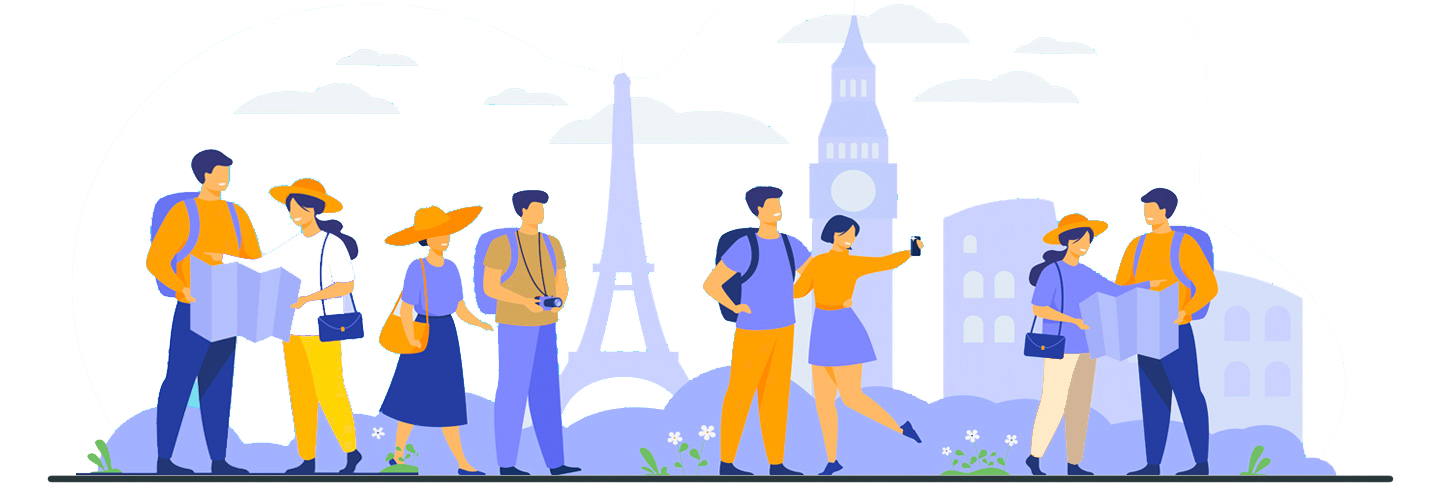
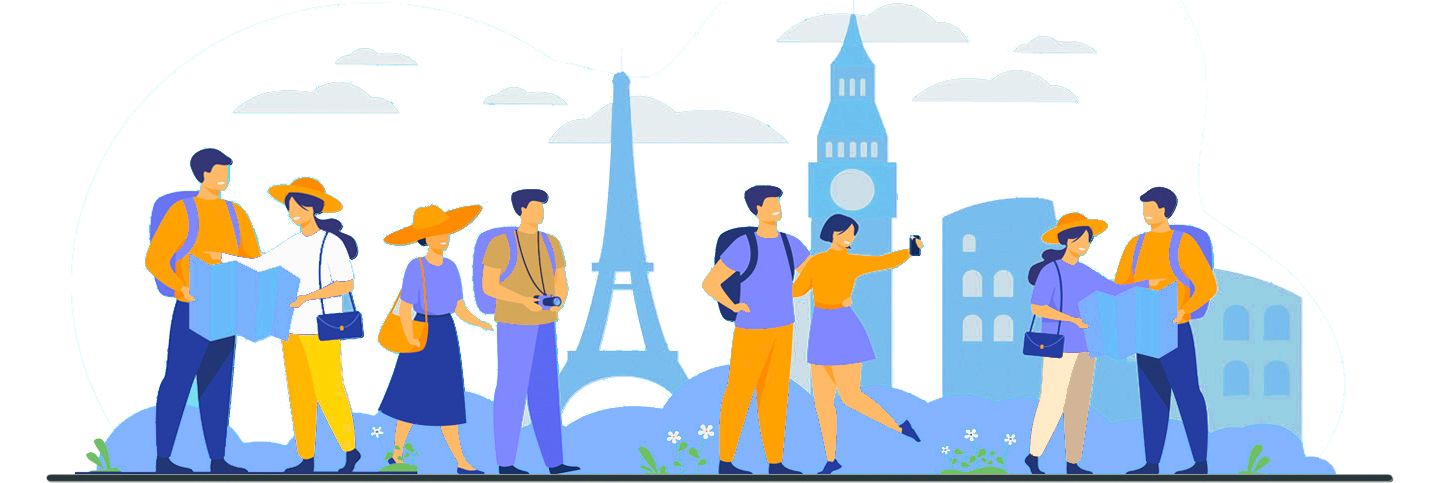
fix map marker style and minor layout edits
delete unnecessary jpg files

Changed region(s): [[0.0312, 0.0311, 0.9688, 1.0], [0.2812, 0.4037, 0.375, 0.4348], [0.3438, 0.1863, 0.375, 0.2174]]

diff --git a/src/app/map/map.component.ts b/src/app/map/map.component.ts
@@ -55,9 +55,9 @@ export class MapComponent implements OnInit, AfterViewInit {
 
     const markerIcon = L.icon({
       iconUrl: `../../assets/img/markers/user-location-pointer.png`,
-      iconSize: [46, 46], // size of the icon
+      iconSize: [30, 30], // size of the icon
       iconAnchor: [15.5, 42], // point of the icon which will correspond to marker's location
-      popupAnchor: [0, -45] // point from which the popup should open relative to the iconAnchor
+      popupAnchor: [0, -40] // point from which the popup should open relative to the iconAnchor
     });
 
     const zooMarker = L.marker([this.currentPosition.latitude, this.currentPosition.longitude], {
@@ -68,27 +68,27 @@ export class MapComponent implements OnInit, AfterViewInit {
   }
 
   placeMarkers(tapahtumat: Tapahtuma[]){
-    let filteredTapahtumat = tapahtumat.filter(t=>
+    let filteredTapahtumat = tapahtumat/*.filter(t=>
       t.sijaintiLeveys < this.places.currentPosition.latitude + this.radius && 
       t.sijaintiLeveys > this.places.currentPosition.latitude - this.radius &&
       t.sijaintiPituus < this.places.currentPosition.longitude + this.radius &&
-      t.sijaintiPituus > this.places.currentPosition.longitude - this.radius)
+      t.sijaintiPituus > this.places.currentPosition.longitude - this.radius)*/
       
     this.markers.forEach(m=>this.map.removeLayer(m))
     this.markers = []
 
     filteredTapahtumat.forEach(t=> {
       const markerIcon = L.icon({
-        iconUrl: `../../assets/img/markers/place-location-pointer.png`,
-        iconSize: [30, 30], // size of the icon
+        iconUrl: `../../assets/img/markers/place2-location-pointer.png`,
+        iconSize: [14, 14], // size of the icon
         iconAnchor: [15.5, 42], // point of the icon which will correspond to marker's location
-        popupAnchor: [0, -45] // point from which the popup should open relative to the iconAnchor
+        popupAnchor: [-10, -40] // point from which the popup should open relative to the iconAnchor
       });
 
       const marker = L.marker([t.sijaintiLeveys, t.sijaintiPituus], {  
         icon: markerIcon
       })
-      .bindPopup(`<b class="text-cyan-600">${t.nimi}</b>`)
+      .bindPopup(`<a href="${t.homesite}" target="_blank"><b class="text-cyan-600">${t.nimi}</b></a><br><b class="lowercase">${t.luokka}</b>`)
       .addTo(this.map);
       this.markers.push(marker)
     })

diff --git a/src/app/geolocation/geolocation.component.html b/src/app/geolocation/geolocation.component.html
@@ -4,12 +4,12 @@
     placeholder="Syötä sijainti..."
     id="address"
     [(ngModel)]="address"
-    class="my-1 mb-1 p-2 border-solid border-2 border-orange-400 rounded-lg w-full md:w-4/6"
+    class="my-1 p-2 border-solid border-2 border-orange-400 rounded-lg w-full md:w-4/6"
   />
   <button
-    class="bg-orange-400 px-6 m-1 ml-2 rounded-lg text-white font-bold text-lg hover:bg-orange-600"
+    class="bg-orange-500 px-3 p-1 m-1 ml-2 rounded-lg text-white font-bold leading-none hover:bg-cyan-500"
     (click)="findAddress()"
-  >
+  > Etsi
     <fa-icon
       class="text-white text-xl m-1 drop-shadow-lg"
       [icon]="faLocationDot"
@@ -17,15 +17,33 @@
   </button>
 </div>
 
-<div class="pl-6 md:pl-12 text-xs">
-<p class="" *ngIf="latitude && longitude">
+<div class="pl-3 md:pl-12 text-xs">
+<!--<p class="" *ngIf="latitude && longitude">
   <span class="font-semibold"> Your current location is <br></span> 
-   {{address}} <br> 
    latitude: {{latitude}} and longitude: {{longitude}}
 </p>
 <p class="" *ngIf="!latitude && !longitude">
   Not found coordinates. Allow your browser location data.
+</p>-->
+<p class="mb-2" *ngIf="addressResult">
+  {{ addressResult }}<br>
+  lat: {{latitude}} & long: {{longitude}}
 </p>
-<button class="bg-cyan-400 rounded-lg my-1 p-2 text-white" (click)="refreshCurrentCoords()">Päivitä käyttämään näitä koordinaatteja</button>
+
+<button class="bg-cyan-500 rounded-lg my-1 p-2 text-white drop-shadow-lg hover:bg-orange-500" (click)="refreshCurrentCoords()">
+  <fa-icon
+  class="text-white m-1 drop-shadow-lg"
+  [icon]="faLocationDot"
+></fa-icon>
+  Päivitä sijainti
+</button>
+<button class="bg-cyan-500 rounded-lg ml-3 my-1 p-2 text-white drop-shadow-lg hover:bg-orange-500" (click)="getGeolocation()">
+  <fa-icon
+  class="text-white m-1 drop-shadow-lg"
+  [icon]="faLocationDot"
+></fa-icon>
+Käytä oman sijainnin paikannusta 
+</button>
+
 </div>
 

diff --git a/src/app/geolocation/geolocation.component.ts b/src/app/geolocation/geolocation.component.ts
@@ -15,6 +15,7 @@ export class GeolocationComponent implements OnInit {
   faLocationDot = faLocationDot;
   address: string = '';
   addressCoords = [];
+  addressResult: string = '';
 
   private map!: L.Map;
 
@@ -43,12 +44,21 @@ export class GeolocationComponent implements OnInit {
       //.then(show => console.log(addressArr))
       .then(lat => this.latitude = addressArr[0].lat)
       .then(lon => this.longitude = addressArr[0].lon)
-      .then(log => this.address = addressArr[0].display_name)
+      .then(log => this.addressResult = addressArr[0].display_name)
       .catch(err => console.log(err));
   }
 
   refreshCurrentCoords(){
     this.places.setCoords(this.latitude, this.longitude);
     }
+
+  getGeolocation(){
+      navigator.geolocation.getCurrentPosition((position) => {
+        this.latitude = position.coords.latitude;
+        this.longitude = position.coords.longitude;    
+      });
+      this.places.setCoords(this.latitude, this.longitude);
+  }
+    
   }
   

diff --git a/src/app/places/places.component.html b/src/app/places/places.component.html
@@ -6,7 +6,7 @@
       <app-geolocation></app-geolocation>
 
       <div
-        class="mt-1 w-full md:w-5/6 m-auto border-solid border-8 border-white rounded-lg"
+        class="mt-3 w-full md:w-5/6 m-auto border-solid border-8 border-white rounded-lg"
       >
         <app-map></app-map>
       </div>

diff --git a/src/app/places-detail/places-detail.component.html b/src/app/places-detail/places-detail.component.html
@@ -1,6 +1,6 @@
 <div id="bg-img" class="bg-white mb-4 drop-shadow-lg">
   <img
-    src="assets/img/bg/bg-main-desktop.jpg"
+    src="assets/img/bg/bg-main2-desktop.png"
     class="m-auto w-full md:w-4/6 lg:w-3/6"
     alt="illustration to add color"
   />
